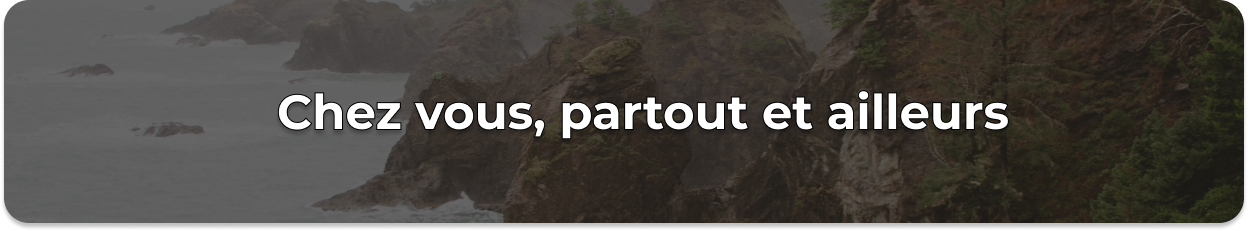
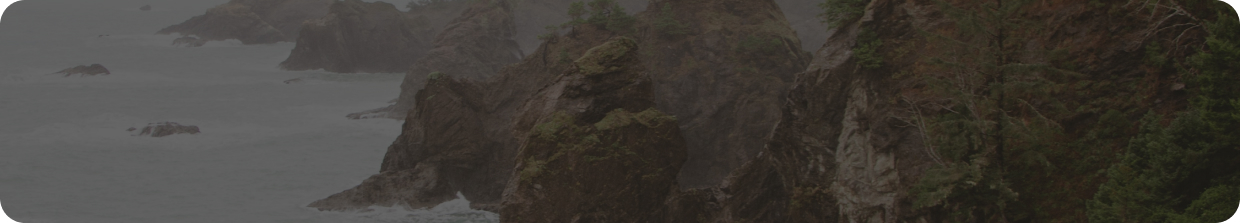
Étape 4 : stylage Sass (bannière, galerie et cartes)

diff --git a/src/components/Card/Card.scss b/src/components/Card/Card.scss
@@ -1,0 +1,31 @@
+.card {
+  position: relative;
+  height: 340px;
+  border-radius: 10px;
+  overflow: hidden;
+
+  &-image {
+    width: 100%;
+    height: 100%;
+    object-fit: cover;
+  }
+
+  &::after {
+    content: '';
+    position: absolute;
+    bottom: 0;
+    left: 0;
+    width: 100%;
+    height: 40%;
+    background: linear-gradient(to top, rgba(0, 0, 0, 0.6), transparent);
+  }
+
+  &-title {
+    position: absolute;
+    bottom: 20px;
+    left: 20px;
+    z-index: 1;
+    color: #ffffff;
+    font-size: 18px;
+  }
+}

diff --git a/src/components/Banner/Banner.scss b/src/components/Banner/Banner.scss
@@ -1,0 +1,27 @@
+.banner {
+  position: relative;
+  height: 223px;
+  border-radius: 25px;
+  overflow: hidden;
+  display: flex;
+  align-items: center;
+  justify-content: center;
+  margin-top: 20px;
+
+  &-image {
+    position: absolute;
+    top: 0;
+    left: 0;
+    width: 100%;
+    height: 100%;
+    object-fit: cover;
+    filter: brightness(0.75);
+  }
+
+  &-title {
+    position: relative;
+    color: #ffffff;
+    font-size: 48px;
+    text-align: center;
+  }
+}

diff --git a/src/pages/Home/Home.scss b/src/pages/Home/Home.scss
@@ -1,0 +1,9 @@
+.gallery {
+  display: grid;
+  grid-template-columns: repeat(3, 1fr);
+  gap: 60px;
+  padding: 50px;
+  margin-top: 40px;
+  background-color: #f7f7f7;
+  border-radius: 25px;
+}
